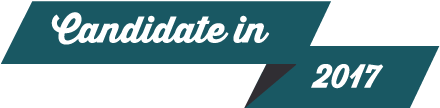
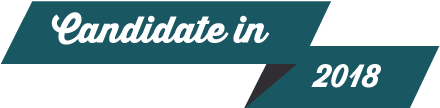
nice hover behavior

Changed region(s): [[0.7091, 0.5833, 0.8864, 0.8333]]

diff --git a/web/static/js/components/pledge-tally.js b/web/static/js/components/pledge-tally.js
@@ -13,6 +13,8 @@ export default class PledgeTally extends Component {
     }
   }
 
+  mouseOver = false
+
   componentDidMount() {
     store.reps
       .get()
@@ -20,16 +22,27 @@ export default class PledgeTally extends Component {
       .catch(console.error)
   }
 
-  bubbleHover = ({ idxs, district }) => ev =>
+  bubbleHover = ({ idxs, district }) => ev => {
     this.setState({ hovering: { idxs, district } })
+    this.mouseOver = true
+  }
 
-  resetHover = ev =>
-    this.setState({
-      hovering: {
-        idxs: { col: undefined, row: undefined },
-        district: undefined
-      }
-    })
+  resetHover = ev => {
+    this.mouseOver = false
+
+    setTimeout(
+      () =>
+        this.mouseOver
+          ? null
+          : this.setState({
+              hovering: {
+                idxs: { col: undefined, row: undefined },
+                district: undefined
+              }
+            }),
+      500
+    )
+  }
 
   render() {
     const { congress, hovering } = this.state
@@ -41,6 +54,15 @@ export default class PledgeTally extends Component {
           flexDirection: 'column'
         }}
       >
+        <div className="title section-header" style={{ paddingBottom: 0 }}>
+          Pledge Tally
+        </div>
+        <div
+          className="section-header"
+          style={{ paddingBottom: 50, paddingTop: 0 }}
+        >
+          Click to see a signer's name and contact information
+        </div>
         <div style={{ display: 'flex', height: '300px' }}>
           {this.pledgesByState().map((state, col) =>
             <div
@@ -81,23 +103,34 @@ export default class PledgeTally extends Component {
                         <div className="standing-up">Standing Up</div>
 
                         <div className="pledger-info">
-                          <div className="name">
-                            {pledge.name}
-                          </div>
-                          <div className="position">
-                            {`${pledge.position} ${pledge.district}`}
+                          <img
+                            src={`/images/m4a-candidate-in.png`}
+                            style={{
+                              marginTop: 5,
+                              marginBottom: 5,
+                              width: 170,
+                              height: 42
+                            }}
+                          />
+                          <div className="name-position-container">
+                            <div className="name">
+                              {pledge.name}
+                            </div>
+                            <div className="position">
+                              {`${pledge.position} ${pledge.district}`}
+                            </div>
                           </div>
                         </div>
 
                         <div className="pledger-share">
                           <a href={pledge.twitter} target="_blank">
-                            Twitter
+                            <img src="/images/m4a-twitter.png" />
                           </a>
                           <a href={pledge.facebook} target="_blank">
-                            Facebook
+                            <img src="/images/m4a-facebook.png" />
                           </a>
                           <a href={pledge.instagram} target="_blank">
-                            Instagram
+                            <img src="/images/m4a-instagram.png" />
                           </a>
                         </div>
                       </div>
